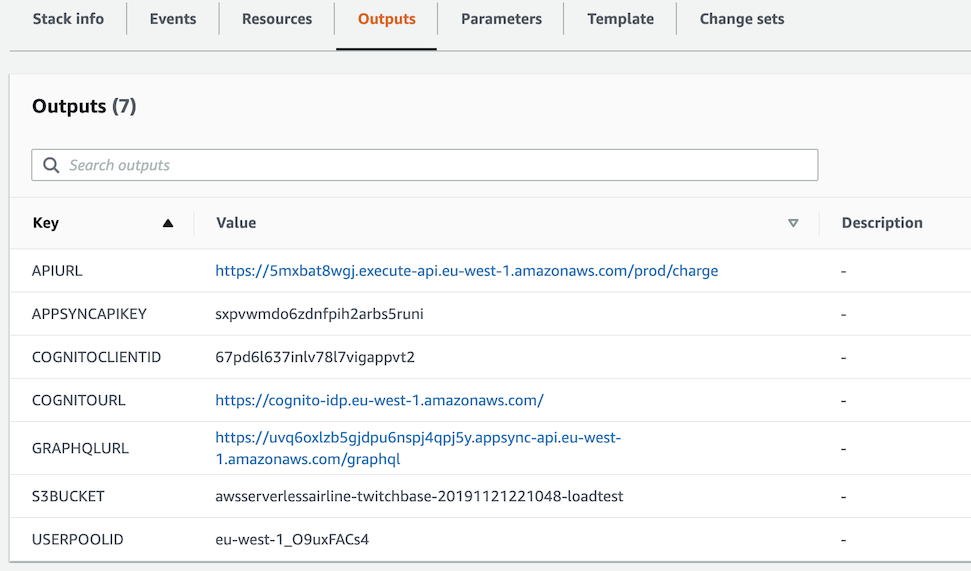
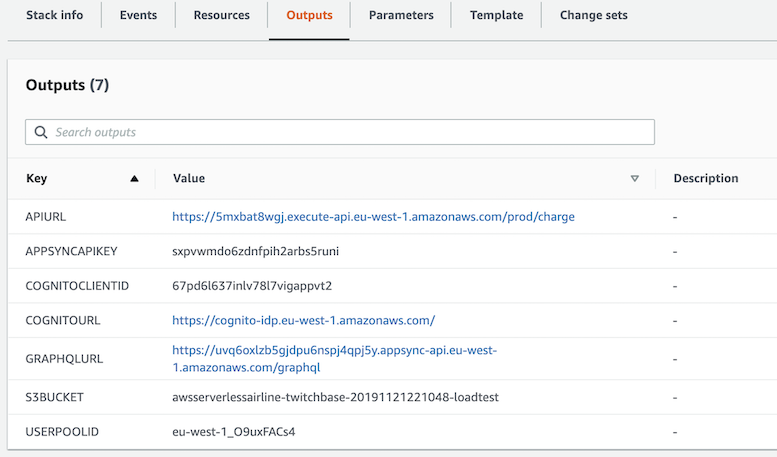
resizing images

diff --git a/src/perf-tests/README.md b/src/perf-tests/README.md
@@ -3,7 +3,7 @@
 This perf-test stack uses [Gatling](https://gatling.io/), open source tool for load testing. The stack creates AWS Fargate Cluster to run the setup and Gatling scripts. 
 
 The setup scripts found under [mock-scripts](./mock-scripts) folder
-- creates fakes users in Amazon Cognito userpool
+- creates test users in Amazon Cognito userpool
 - load mock flight data into Flights table
 - zips Gatling reports and upload to S3 bucket
 
